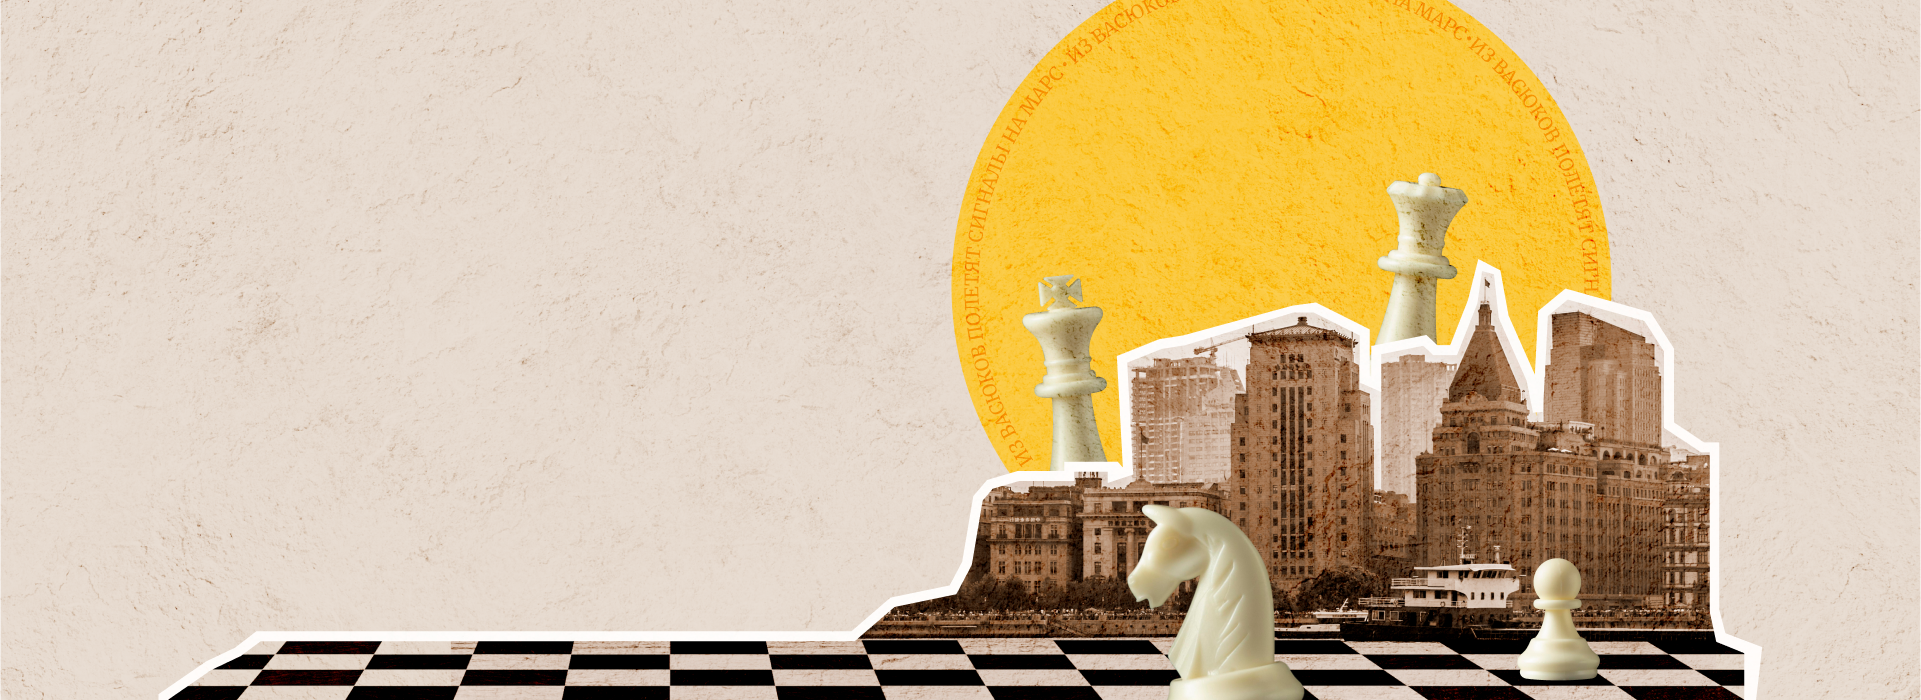
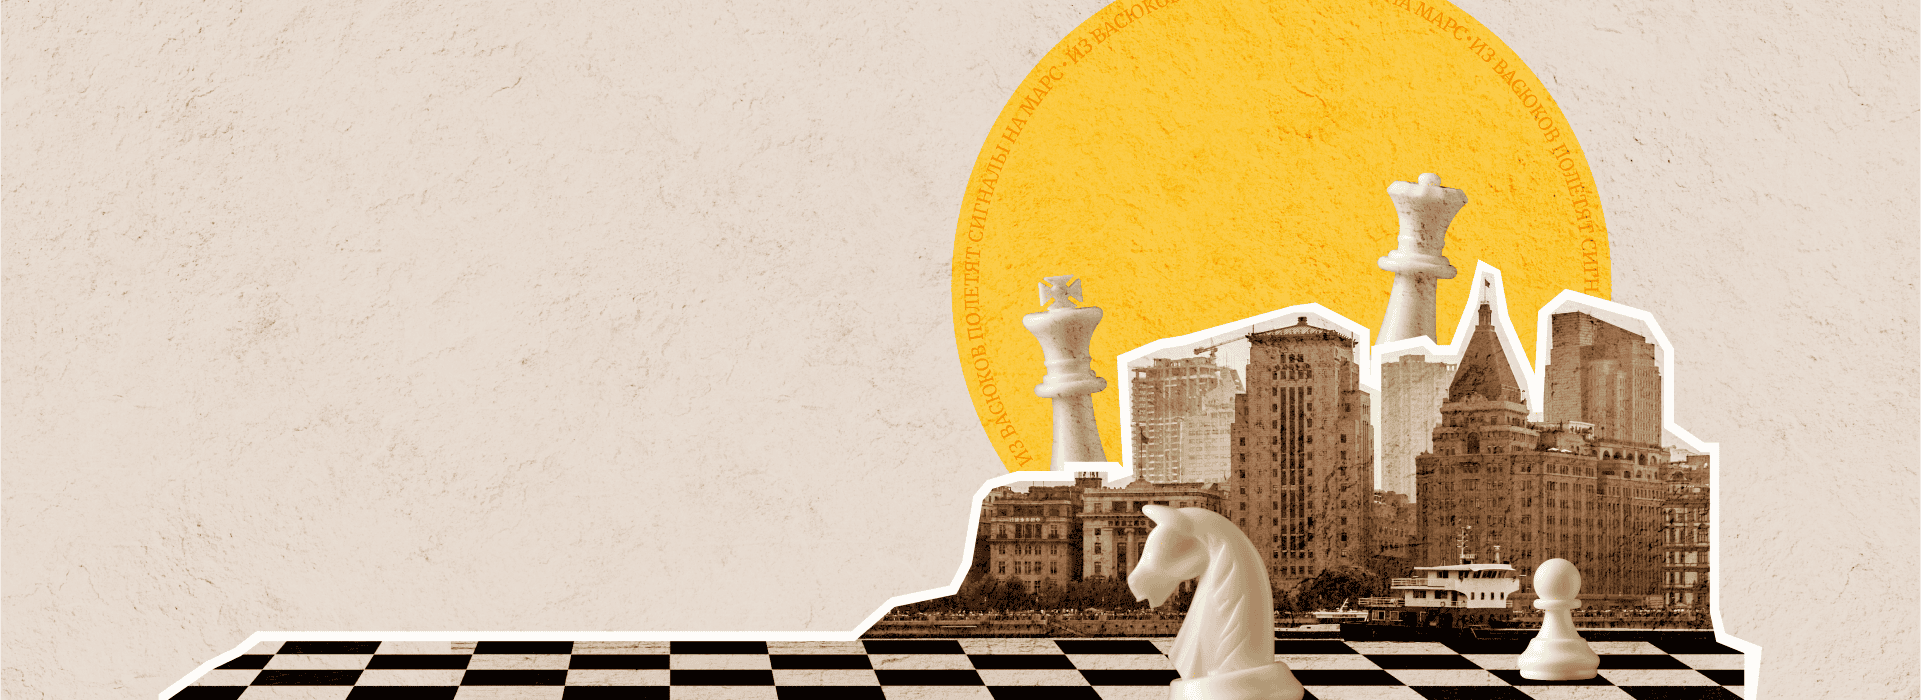
Compressed images and updated image paths

diff --git a/components/slider/slider.html b/components/slider/slider.html
@@ -1,6 +1,6 @@
 <section class="slider">
     <div class="slider__header">
-        <h2 class="slider__title">Participantи турнира</h2>
+        <h2 class="slider__title">Участники турнира</h2>
         <div class="slider__controls">
             <div class="slider__control slider__control--prev" id="prevButton">
                 <img
@@ -12,7 +12,7 @@
             <div class="slider__control slider__control--next" id="nextButton">
                 <img
                     class="slider__control-right-img"
-                    src="../../images/arrow-right.svg"
+                    src="/images/arrow-right.svg"
                     alt="Arrow Right" />
             </div>
         </div>
@@ -21,7 +21,7 @@
         <div class="slider__item">
             <img
                 class="slider__item__img"
-                src="../../images/person.png"
+                src="/images/person.png"
                 alt="Participant 1" />
             <div class="slider__item__info">
                 <h3 class="slider__item__name">Хосе-Рауль Капабланка</h3>
@@ -34,7 +34,7 @@
         <div class="slider__item">
             <img
                 class="slider__item__img"
-                src="../../images/person.png"
+                src="/images/person.png"
                 alt="Participant 1" />
             <div class="slider__item__info">
                 <h3 class="slider__item__name">Эммануил Ласкер</h3>
@@ -47,7 +47,7 @@
         <div class="slider__item">
             <img
                 class="slider__item__img"
-                src="../../images/person.png"
+                src="/images/person.png"
                 alt="Participant 3" />
             <div class="slider__item__info">
                 <h3 class="slider__item__name">Александр Алехин</h3>
@@ -60,7 +60,7 @@
         <div class="slider__item">
             <img
                 class="slider__item__img"
-                src="../../images/person.png"
+                src="/images/person.png"
                 alt="Participant 4" />
             <div class="slider__item__info">
                 <h3 class="slider__item__name">Арон Нимцович</h3>
@@ -73,7 +73,7 @@
         <div class="slider__item">
             <img
                 class="slider__item__img"
-                src="../../images/person.png"
+                src="/images/person.png"
                 alt="Participant 5" />
             <div class="slider__item__info">
                 <h3 class="slider__item__name">Рихард Рети</h3>
@@ -86,7 +86,7 @@
         <div class="slider__item">
             <img
                 class="slider__item__img"
-                src="../../images/person.png"
+                src="/images/person.png"
                 alt="Participant 6" />
             <div class="slider__item__info">
                 <h3 class="slider__item__name">Остап Бендер</h3>
